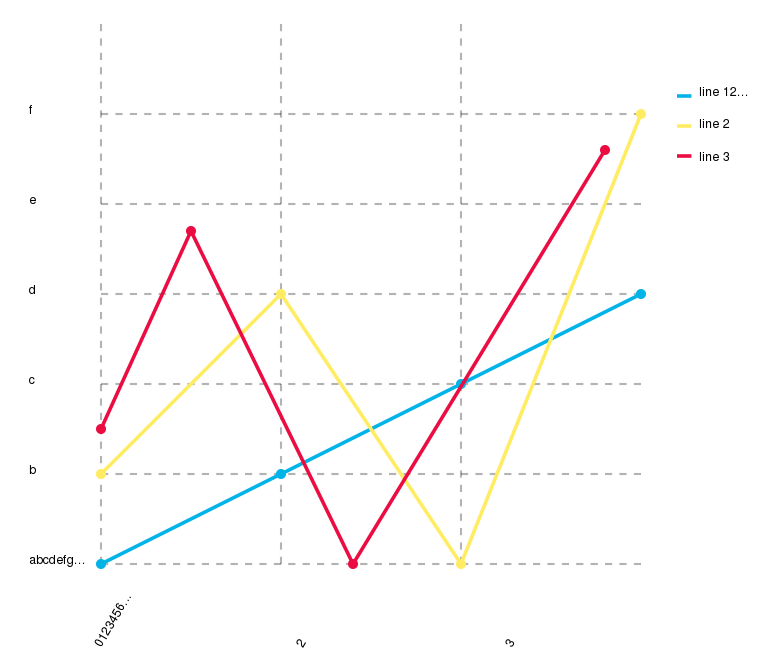
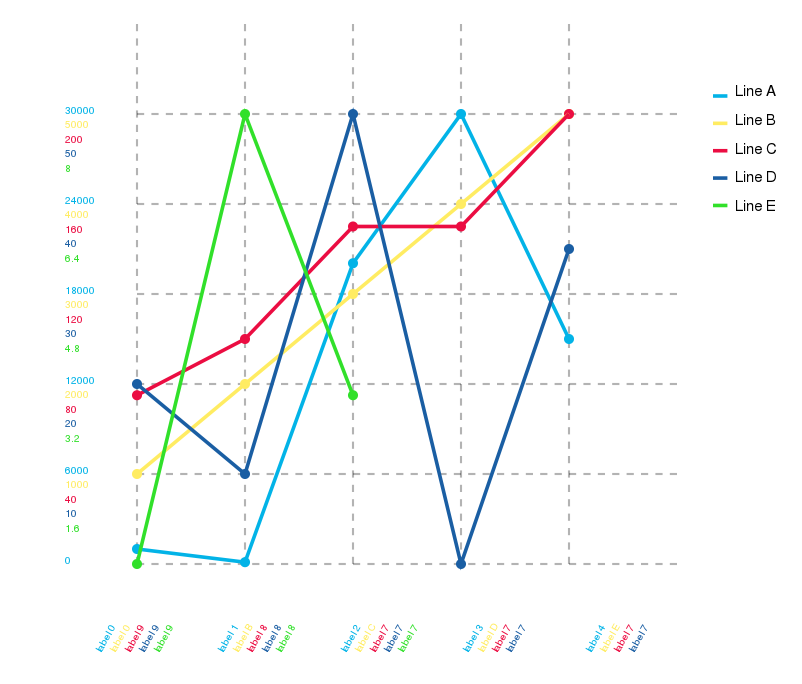
Update README and screenshot

diff --git a/test.js b/test.js
@@ -170,9 +170,4 @@ Hide or show grid
 Hide or show lines
 Hide or show point
 Line or Sinus
-
-
-
-
-
 */

diff --git a/README.md b/README.md
@@ -1,7 +1,9 @@
-node-mithril-component-boilerplate
-==================================
+node-mithril-linechart
+======================
 
-TODO: Description
+A simple SVG line chart component for Mithril and NodeJS.
+
+![Line chart screenshot](screenshot.png)
 
 Usage
 =====
@@ -46,6 +48,9 @@ TODO: Options
 Test
 ====
 
-TODO: How to test
+Setup [mithril-component-tools](https://github.com/mithril-components/mitthril-components-tools) first. Then:
+
+    npm install
+    mct test pagination.js en
 
 
